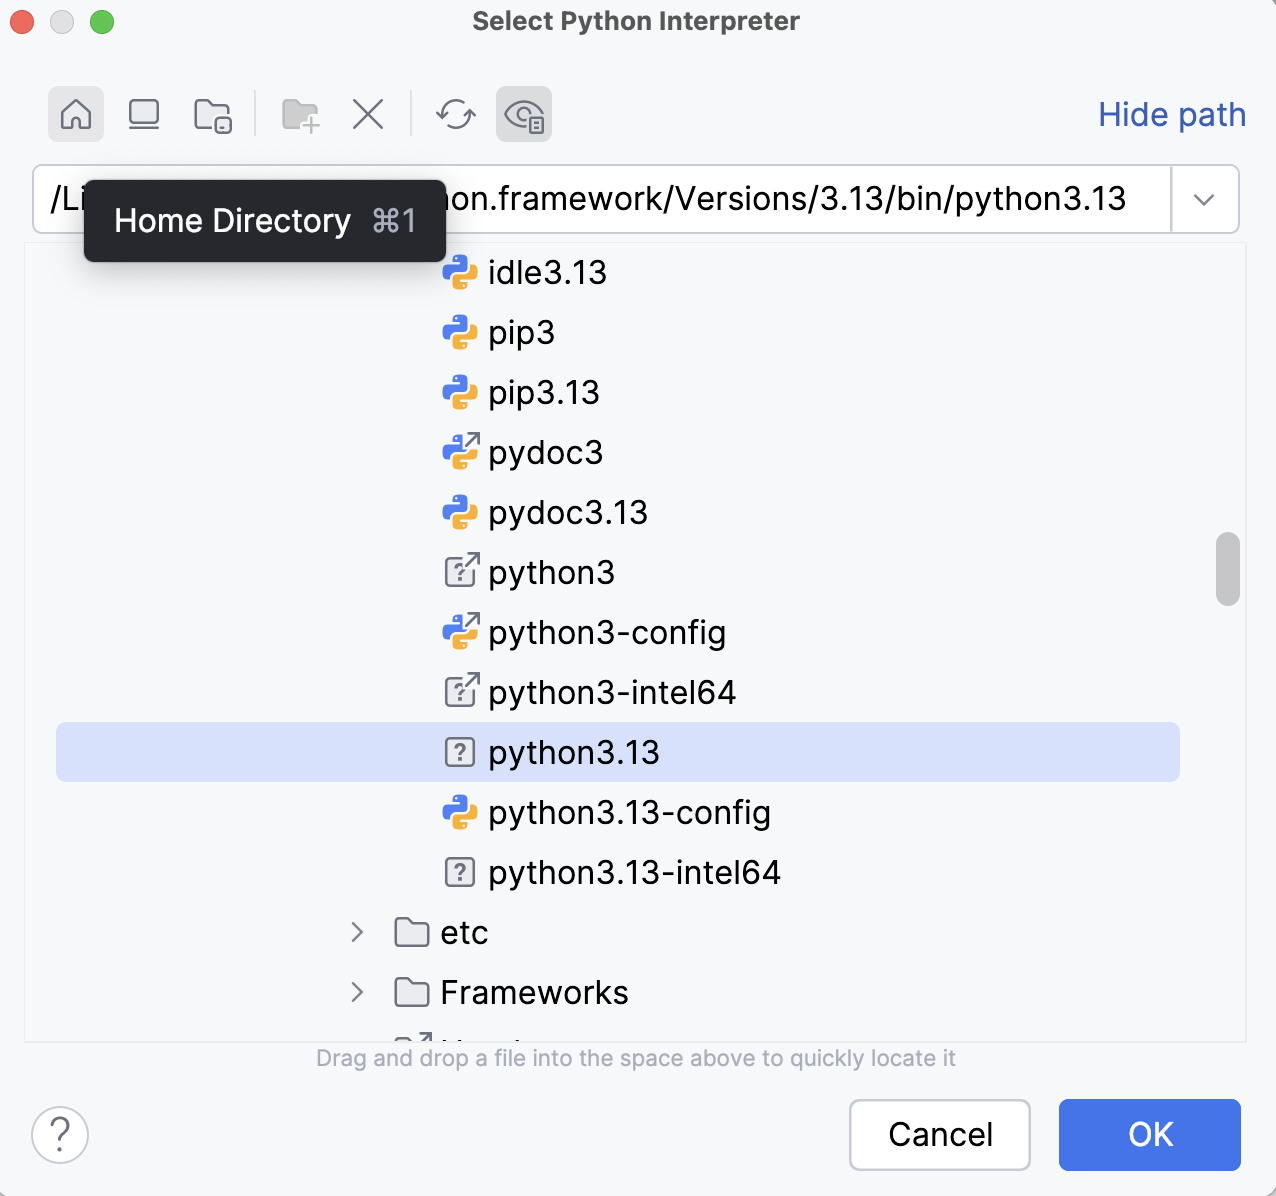
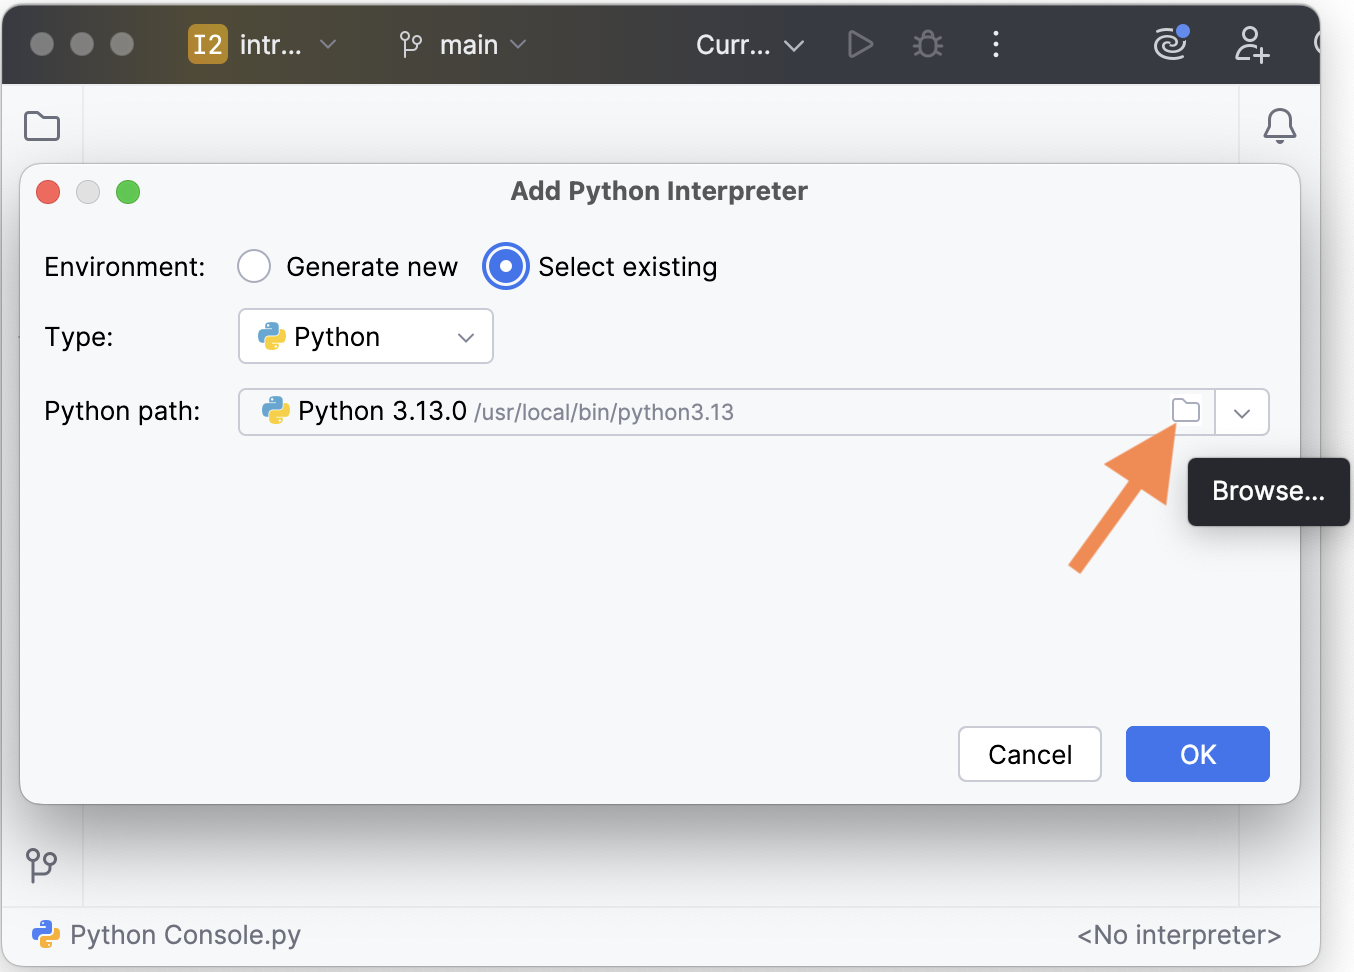
Update PyCharm instructions to Unified from Community

diff --git a/docs/PYTHON-IDE.md b/docs/PYTHON-IDE.md
@@ -4,32 +4,38 @@
  
 ### 1. Open the Python Interpreter menu
 
-   <img width="70%" src="img/pycharm_python_1.png">
+   <img width="40%" src="img/pycharm_python_1.png">
    
 ### 2a. Select an existing interpreter
 
-   <img width="30%" src="img/pycharm_python_2a.png">
+   <img width="46%" src="img/pycharm_python_2a.png">
    
-   If your desired version is listed, select it. If not, go on to 2b.
+   If your desired version is listed, select it and you're done. If not, go on to 2b.
 
-### 2b. Add a new interpreter
+### 2b. OR add a new local interpreter
 
-   <img width="50%" src="img/pycharm_python_2b.png">
+   <img width="59%" src="img/pycharm_python_2b.png">
 
-### 3. Add a system interpreter
-   <img width="30%" src="img/pycharm_python_3.png">
+### 3. Select an existing interpreter
+   <img width="42%" src="img/pycharm_python_3.png">
    
-### 4a. Select an existing system interpreter
+### 4a. Choose a version from the dropdown
 
-   <img width="70%" src="img/pycharm_python_4a.png">
+   <img width="42%" src="img/pycharm_python_4a.png">
+   <img width="42%" src="img/pycharm_python_4a2.png">
    
-   If your desired version was found, select it and OK. If not, go on to 4b.
+   If your desired version was found, select it and press OK. If not, go on to 4b.
 
-### 4b. Find your system interpreter
+### 4b. Or manually look for your system interpreter
 
-   <img width="60%" src="img/pycharm_python_4b.png">
+   <img width="42%" src="img/pycharm_python_4b.png">
+   <img width="42%" src="img/pycharm_python_4b2.png">
 
 If you’re not sure where to find it, look in [these locations](PYTHON-LOCATIONS.md).
+   
+<img width="40%" src="img/pycharm_python_5.png">
+
+You should now see the desired version.
 
 ## Visual Studio Code
 
